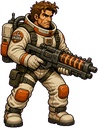
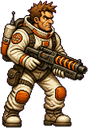
STAR MIND: Ash outfit fix, rare cybertrucks, intensity-evolving BGs (#19)
* Fix Ash outfit flash, rare cybertrucks, intensity-evolving BGs

Regenerate idle/shoot/jump to match the white/orange walk suit (old
skeleton/headband frames were the flash). Cut cybertruck traffic to one
pass every ~2.5 minutes. Add calm→peak parallax plates for all levels
crossfaded by smoothed combat intensity plus threat atmosphere.

* Log star-mind art intensity / Ash outfit fix

---------

diff --git a/projects/2026-07-star-mind/game/src/game.ts b/projects/2026-07-star-mind/game/src/game.ts
@@ -11,7 +11,7 @@ import {
 import {
   art,
   blitCover,
-  blitParallax,
+  blitParallaxEvolve,
   blitSprite,
   bossAnimLib,
   enemyAnimLib,
@@ -227,6 +227,8 @@ export class Game {
   private scriptBeatIndex = 0;
   private densityTimer = 0;
   private intensity: IntensitySample = sampleIntensity(1, 1, 0);
+  /** Smoothed 0–1 threat for continuous background evolution */
+  private bgThreat = 0;
   private lastBeat = "";
   private rescued = 0;
   private score = 0;
@@ -466,6 +468,7 @@ export class Game {
     this.densityTimer = 0.8;
     this.lastBeat = "";
     this.intensity = sampleIntensity(id, 1, 0);
+    this.bgThreat = this.intensity.intensity;
     this.camLean = 0;
 
     if (id === 1) {
@@ -682,6 +685,9 @@ export class Game {
   private updateIntensityPacing(dt: number) {
     const progress = this.goalProgress();
     this.intensity = sampleIntensity(this.levelId, this.level.goalPhase, progress);
+    // Continuous visual evolution — lag slightly so plates crossfade, don't pop
+    const k = 1 - Math.exp(-1.35 * dt);
+    this.bgThreat += (this.intensity.intensity - this.bgThreat) * k;
 
     if (this.intensity.beat !== this.lastBeat) {
       const prev = this.lastBeat;
@@ -1658,30 +1664,66 @@ export class Game {
   private renderBg() {
     const ctx = this.ctx;
     const kind = this.levelId === 1 ? "pad" : this.levelId === 2 ? "sky" : "void";
+    const threat = this.bgThreat;
     ctx.fillStyle = C.void;
     ctx.fillRect(0, 0, W, H);
 
     if (this.levelId === 1) {
-      blitParallax(ctx, art.bg("l1-sky"), this.camX, 0.12, -60, 1);
-      blitParallax(ctx, art.bg("l1-mid"), this.camX, 0.35, 20, 0.85);
-      // rain
-      ctx.strokeStyle = "rgba(174,198,220,0.2)";
-      for (let i = 0; i < 40; i++) {
-        const x = ((i * 97 + this.frame * 8) % (W + 40)) - 20;
-        const y = ((i * 53 + this.frame * 14) % (H + 40)) - 20;
+      blitParallaxEvolve(
+        ctx,
+        art.bg("l1-sky-calm") ?? art.bg("l1-sky"),
+        art.bg("l1-sky-peak"),
+        this.camX,
+        0.12,
+        threat,
+        -60,
+      );
+      blitParallaxEvolve(
+        ctx,
+        art.bg("l1-mid-calm") ?? art.bg("l1-mid"),
+        art.bg("l1-mid-peak"),
+        this.camX,
+        0.35,
+        threat,
+        20,
+      );
+      // rain densifies with threat
+      const rainN = 28 + Math.floor(threat * 36);
+      ctx.strokeStyle = `rgba(174,198,220,${0.14 + threat * 0.16})`;
+      for (let i = 0; i < rainN; i++) {
+        const x = ((i * 97 + this.frame * (8 + threat * 10)) % (W + 40)) - 20;
+        const y = ((i * 53 + this.frame * (14 + threat * 12)) % (H + 40)) - 20;
         ctx.beginPath();
         ctx.moveTo(x, y);
-        ctx.lineTo(x - 2, y + 12);
+        ctx.lineTo(x - 2 - threat * 2, y + 12 + threat * 6);
         ctx.stroke();
       }
     } else if (this.levelId === 2) {
-      blitParallax(ctx, art.bg("l2-ascent"), this.camX, 0.2, -30, 1);
+      blitParallaxEvolve(
+        ctx,
+        art.bg("l2-ascent-calm") ?? art.bg("l2-ascent"),
+        art.bg("l2-ascent-peak"),
+        this.camX,
+        0.2,
+        threat,
+        -30,
+      );
       const alt = this.level.scroll / this.level.length;
-      ctx.fillStyle = `rgba(5,7,14,${Math.min(0.5, alt * 0.55)})`;
+      ctx.fillStyle = `rgba(5,7,14,${Math.min(0.55, alt * 0.4 + threat * 0.25)})`;
       ctx.fillRect(0, 0, W, H * 0.35);
     } else {
-      blitParallax(ctx, art.bg("l3-void"), this.camX, 0.1, 0, 1);
+      blitParallaxEvolve(
+        ctx,
+        art.bg("l3-void-calm") ?? art.bg("l3-void"),
+        art.bg("l3-void-peak"),
+        this.camX,
+        0.1,
+        threat,
+        0,
+      );
     }
+
+    this.renderThreatAtmosphere(threat);
 
     drawGroundDeck(ctx, this.stage, kind);
     drawDepthFog(ctx, this.stage);
@@ -1707,8 +1749,47 @@ export class Game {
     if (this.levelId === 1 && this.towerReady) this.renderGantryAndShip();
   }
 
+  /** Embers / ion haze / vignette that ramp with smoothed threat */
+  private renderThreatAtmosphere(threat: number) {
+    if (threat < 0.08) return;
+    const ctx = this.ctx;
+    const t = threat;
+
+    // Warm/red wash — dystopian heat
+    ctx.fillStyle = `rgba(180, 40, 12, ${0.04 + t * 0.14})`;
+    ctx.fillRect(0, 0, W, H * 0.55);
+
+    // Vignette crush at peak
+    const g = ctx.createRadialGradient(W / 2, H * 0.45, 80, W / 2, H * 0.5, 520);
+    g.addColorStop(0, "transparent");
+    g.addColorStop(1, `rgba(5, 4, 8, ${0.15 + t * 0.45})`);
+    ctx.fillStyle = g;
+    ctx.fillRect(0, 0, W, H);
+
+    // Rising embers / debris sparks
+    const n = Math.floor(6 + t * 28);
+    for (let i = 0; i < n; i++) {
+      const seed = i * 97.3;
+      const x = ((seed * 13 + this.frame * (0.7 + t) + this.camX * 0.08) % (W + 40)) - 20;
+      const y = H - ((seed * 7 + this.frame * (1.2 + t * 2.5)) % (H * 0.85));
+      const a = 0.25 + t * 0.55;
+      ctx.fillStyle =
+        i % 3 === 0
+          ? `rgba(232, 93, 4, ${a})`
+          : i % 3 === 1
+            ? `rgba(244, 211, 94, ${a * 0.85})`
+            : `rgba(46, 196, 182, ${a * 0.5})`;
+      ctx.fillRect(x, y, 2, 2 + (i % 2));
+    }
+
+    // Occasional distant flash bloom when threat is high
+    if (t > 0.55 && Math.sin(this.frame * 0.11 + t * 4) > 0.92) {
+      glow(ctx, W * (0.2 + (this.frame % 7) * 0.1), H * 0.3, 90 + t * 40, C.pad, 0.12 + t * 0.1);
+    }
+  }
+
   /**
-   * SpaceX/Tesla diaspora wreckage + frantic cybertruck traffic —
+   * SpaceX/Tesla diaspora wreckage + rare cybertruck pass —
    * dystopian race-to-orbit midground for Earth Escape.
    */
   private renderL1Diaspora() {
@@ -1741,30 +1822,28 @@ export class Game {
       });
     }
 
-    // Frantic cybertruck traffic — mid parallax, both directions
-    const traffic: { phase: number; speed: number; z: number; h: number; facing: 1 | -1 }[] = [
-      { phase: 0.05, speed: 210, z: 0.92, h: 42, facing: 1 },
-      { phase: 0.38, speed: 260, z: 0.86, h: 48, facing: -1 },
-      { phase: 0.62, speed: 190, z: 0.94, h: 36, facing: 1 },
-      { phase: 0.84, speed: 240, z: 0.8, h: 52, facing: -1 },
-    ];
-    const span = 1600;
-    for (const t of traffic) {
-      const travel = this.level.elapsed * t.speed * t.facing;
-      const local = ((travel + t.phase * span) % span + span) % span;
-      const wx = this.camX - 200 + local;
-      const sp = project({ x: wx, z: t.z, hop: 0 }, this.stage);
-      if (sp.sx < -100 || sp.sx > W + 100) continue;
-      // headlight / roof-bar flicker
-      if (Math.floor(this.frame / 4 + t.phase * 10) % 5 !== 0) {
-        glow(ctx, sp.sx + t.facing * 18 * sp.scale, sp.sy - 8, 16 * sp.scale, C.warn, 0.2);
+    // One cybertruck every ~2.5 minutes — brief on-screen pass, not a traffic jam
+    const PERIOD = 150; // seconds between passes
+    const CROSS = 11; // seconds visible while crossing
+    const cycle = this.level.elapsed % PERIOD;
+    if (cycle < CROSS) {
+      const facing: 1 | -1 = Math.floor(this.level.elapsed / PERIOD) % 2 === 0 ? 1 : -1;
+      const u = cycle / CROSS; // 0→1 across the pass
+      const local = facing === 1 ? u * (W + 200) - 100 : (1 - u) * (W + 200) - 100;
+      const wx = this.camX + local;
+      const z = 0.9;
+      const sp = project({ x: wx, z, hop: 0 }, this.stage);
+      if (sp.sx > -120 && sp.sx < W + 120) {
+        if (Math.floor(this.frame / 5) % 6 !== 0) {
+          glow(ctx, sp.sx + facing * 18 * sp.scale, sp.sy - 8, 14 * sp.scale, C.warn, 0.18);
+        }
+        blitSprite(ctx, art.sprite("cybertruck"), sp.sx, sp.sy - 4, {
+          h: 46,
+          scale: sp.scale,
+          facing,
+          alpha: 0.7,
+        });
       }
-      blitSprite(ctx, art.sprite("cybertruck"), sp.sx, sp.sy - 4, {
-        h: t.h,
-        scale: sp.scale,
-        facing: t.facing,
-        alpha: 0.75,
-      });
     }
   }
 

diff --git a/projects/2026-07-star-mind/game/src/assets.ts b/projects/2026-07-star-mind/game/src/assets.ts
@@ -33,7 +33,20 @@ export type SpriteId =
   | "wreck-booster"
   | "cybertruck";
 
-export type BgId = "l1-sky" | "l1-mid" | "l2-ascent" | "l3-void" | "title-hero";
+export type BgId =
+  | "l1-sky"
+  | "l1-sky-calm"
+  | "l1-sky-peak"
+  | "l1-mid"
+  | "l1-mid-calm"
+  | "l1-mid-peak"
+  | "l2-ascent"
+  | "l2-ascent-calm"
+  | "l2-ascent-peak"
+  | "l3-void"
+  | "l3-void-calm"
+  | "l3-void-peak"
+  | "title-hero";
 
 const SPRITE_FILES: Record<SpriteId, string> = {
   ash: "sprites/ash.png",
@@ -70,9 +83,17 @@ const SPRITE_FILES: Record<SpriteId, string> = {
 
 const BG_FILES: Record<BgId, string> = {
   "l1-sky": "bg/l1-sky.jpg",
+  "l1-sky-calm": "bg/l1-sky-calm.jpg",
+  "l1-sky-peak": "bg/l1-sky-peak.jpg",
   "l1-mid": "bg/l1-mid.jpg",
+  "l1-mid-calm": "bg/l1-mid-calm.jpg",
+  "l1-mid-peak": "bg/l1-mid-peak.jpg",
   "l2-ascent": "bg/l2-ascent.jpg",
+  "l2-ascent-calm": "bg/l2-ascent-calm.jpg",
+  "l2-ascent-peak": "bg/l2-ascent-peak.jpg",
   "l3-void": "bg/l3-void.jpg",
+  "l3-void-calm": "bg/l3-void-calm.jpg",
+  "l3-void-peak": "bg/l3-void-peak.jpg",
   "title-hero": "ui/title-hero.jpg",
 };
 
@@ -215,6 +236,22 @@ export function blitParallax(
   }
   ctx.restore();
   return true;
+}
+
+/** Crossfade calm→peak parallax plates by threat 0…1 */
+export function blitParallaxEvolve(
+  ctx: CanvasRenderingContext2D,
+  calm: HTMLImageElement | null,
+  peak: HTMLImageElement | null,
+  camX: number,
+  factor: number,
+  threat: number,
+  yOffset = 0,
+) {
+  const t = Math.max(0, Math.min(1, threat));
+  const peakA = t * t * (3 - 2 * t);
+  blitParallax(ctx, calm, camX, factor, yOffset, 1);
+  if (peakA > 0.02) blitParallax(ctx, peak, camX, factor, yOffset, peakA);
 }
 
 export function blitCover(

diff --git a/projects/2026-07-star-mind/notes/art-inventory.md b/projects/2026-07-star-mind/notes/art-inventory.md
@@ -14,20 +14,25 @@ Full-res refs in `notes/art-refs/`:
 
 ## Runtime pack (`game/public/art/`)
 
-### Backgrounds (JPEG parallax plates)
-- `bg/l1-sky.jpg`, `bg/l1-mid.jpg`
-- `bg/l2-ascent.jpg`
-- `bg/l3-void.jpg`
+### Backgrounds (JPEG parallax plates — calm + peak for intensity crossfade)
+- `bg/l1-sky.jpg` / `l1-sky-calm.jpg` / `l1-sky-peak.jpg`
+- `bg/l1-mid.jpg` / `l1-mid-calm.jpg` / `l1-mid-peak.jpg`
+- `bg/l2-ascent.jpg` / `l2-ascent-calm.jpg` / `l2-ascent-peak.jpg`
+- `bg/l3-void.jpg` / `l3-void-calm.jpg` / `l3-void-peak.jpg`
 - `ui/title-hero.jpg`
+
+Runtime blends calm→peak via smoothed combat intensity (`blitParallaxEvolve` + threat atmosphere).
 
 ### Sprites (PNG, magenta-keyed)
 Ash · Ash EVA · Ship · Truck · Drone · Crab · Turret · Hackbot · Walker · Wasp · GridSat · Spine · Beetle · Mirror · Ghost · Gate · Pickup · Boss Reaper / Seraph / Prime
+
+Ash ground clips (idle / walk / shoot / jump) share one white/orange spacesuit look — do not mix the older skeleton/headband set.
 
 ### L1 diaspora props
 - `sprites/pad7.png` — massive Pad 7 launch spectacle (destination landmark)
 - `props/gantry-spectacle.png` — climb tower
 - `props/wreck-starship.png`, `wreck-dragon.png`, `wreck-booster.png` — pad wreckage
-- `props/cybertruck.png` — frantic midground traffic
+- `props/cybertruck.png` — rare midground pass (~one every 2.5 min)
 - Near props: `prop-crate-near.png`, `prop-gantry-near.png`
 
 ### Pipeline

diff --git a/projects/2026-07-star-mind/notes/art-direction.md b/projects/2026-07-star-mind/notes/art-direction.md
@@ -35,7 +35,8 @@ Avoid: purple-indigo AI cliché glow-fest, cream+terracotta editorial look, flat
 - Ash: bone suit, pad-orange accents, dark webbing, scar; clips idle/walk/shoot/jump (+ EVA thrust)
 - Enemies/bosses: multi-frame hover/walk/attack/phase clips in `public/art/anim/`
 - Near-camera props reinforce the ground deck (crates, gantry lips)
-- L1 diaspora midground: Starship/Dragon/booster wreckage + frantic cybertruck traffic; Pad 7 is a full painted launch spectacle, not a HUD glyph
+- L1 diaspora midground: Starship/Dragon/booster wreckage + rare cybertruck (one pass ~every 2.5 min); Pad 7 is a full painted launch spectacle, not a HUD glyph
+- Parallax plates evolve calm→peak with smoothed combat intensity (all three levels)
 
 See [`art-25d-anim.md`](art-25d-anim.md). 
 

diff --git a/wiki/log.md b/wiki/log.md
@@ -21,3 +21,5 @@ Append-only. Newest entries at the bottom. Format: `## [YYYY-MM-DD] {verb} | {su
 ## [2026-07-29] art | star-mind | Hand-authored 2.5D 3/4 animation pack (88 frames) + anim driver wired into renderer
 
 ## [2026-07-29] build | star-mind | Mobile touch port: stick/FIRE/JUMP/EMP + menu strip; dual desktop+mobile maintained (notes/mobile.md)
+
+## [2026-07-29] art | star-mind | Ash outfit flash fixed; rare cybertruck; calm→peak intensity backgrounds all levels
